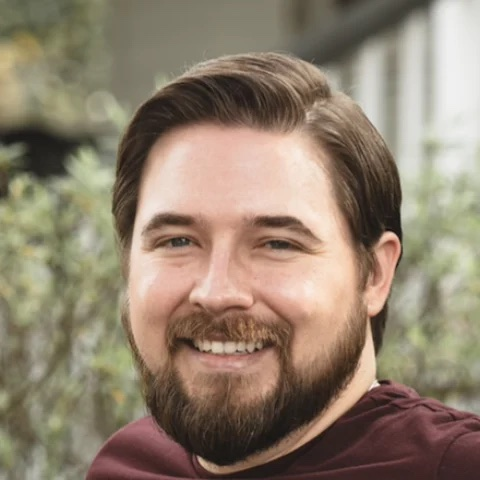
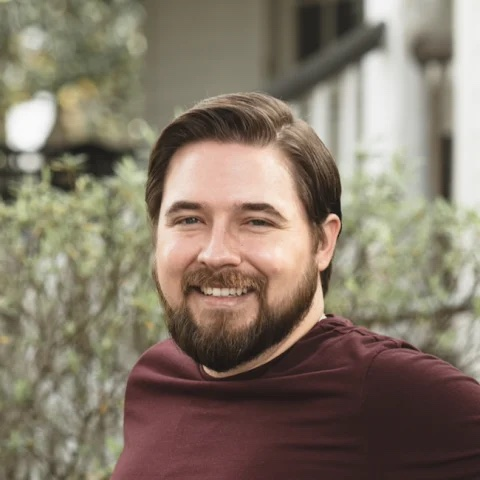
Sticky nav, contact modal, and footer cleanup (#9)
* feat: sticky navbar with scroll-revealed brand

Make the header sticky with a translucent blurred background. On the
homepage the brand name is hidden while the hero (which already shows the
name) is in view, then fades in once scrolled past — removing the duplicate
name at the top. Uses a small IntersectionObserver; degrades to an
always-visible brand without JS and on non-home pages.

* feat: add Contact link to nav

* feat: add icons to contact buttons and footer links

* feat: replace footer with contact modal triggered from Contact nav

Drop the duplicated footer contact links and copyright. Add a native
<dialog> contact modal in the layout; any "/#contact" link upgrades to
open the modal via a tiny inline script. No-JS users still anchor to the
on-page contact section. Modal includes ESC, backdrop click, and an
explicit close button for accessibility.

* feat: update headshot photo

* feat: swap headshot to latest photo

* feat: swap headshot to coffee-bench photo

* feat: widen headshot crop to include shoulders and torso

* fix: tighten headshot crop slightly

* fix: tighten headshot crop another 5%

* fix: tighten headshot crop another 5%

* fix: tighten headshot crop another 10%

* refactor: slim contact section to a single CTA opening the modal

* feat: center closing contact section and restore minimal copyright footer

* refactor: drop custom Download PDF button on /resume

diff --git a/src/styles/global.css b/src/styles/global.css
@@ -11,7 +11,7 @@
 }
 * { box-sizing: border-box; }
 html { min-height: 100%; background-color: var(--background); scroll-behavior: smooth; }
-:target { scroll-margin-top: 1.5rem; }
+:target { scroll-margin-top: 5rem; }
 body {
   min-height: 100vh; margin: 0; color: var(--text);
   background: radial-gradient(circle at 26% 48%, rgba(45,98,126,0.11), transparent 34rem), var(--background);
@@ -20,12 +20,26 @@ body {
   display: flex; flex-direction: column;
 }
 .site-header {
+  position: sticky; top: 0; z-index: 50;
+  background: color-mix(in srgb, var(--background) 82%, transparent);
+  -webkit-backdrop-filter: blur(12px) saturate(125%);
+  backdrop-filter: blur(12px) saturate(125%);
+  border-bottom: 1px solid var(--border);
+  transition: border-color 200ms ease;
+}
+body.home:not(.scrolled) .site-header { border-bottom-color: transparent; }
+.site-header-inner {
   width: var(--container); margin: 0 auto;
   display: flex; align-items: center; justify-content: space-between;
-  padding: 1.4rem 0; gap: 1rem;
+  padding: 1.05rem 0; gap: 1rem;
 }
-.brand { font-weight: 650; letter-spacing: -0.03em; font-size: 1.05rem; text-decoration: none; color: var(--text); }
-.site-nav { display: flex; gap: clamp(1rem, 3vw, 1.75rem); }
+.brand {
+  font-weight: 650; letter-spacing: -0.03em; font-size: 1.05rem; text-decoration: none; color: var(--text);
+  transition: opacity 220ms ease, transform 220ms ease, visibility 220ms ease;
+}
+html.js body.home .brand { opacity: 0; visibility: hidden; transform: translateY(-3px); }
+html.js body.home.scrolled .brand { opacity: 1; visibility: visible; transform: none; }
+.site-nav { display: flex; flex-wrap: wrap; gap: clamp(1rem, 3vw, 1.75rem); }
 .site-nav a {
   color: var(--text-secondary); text-decoration: none; font-size: 0.95rem; font-weight: 500;
   padding-bottom: 0.2rem; border-bottom: 1px solid transparent;
@@ -69,9 +83,14 @@ h1 { margin: 0; font-size: clamp(3.1rem, 7vw, 5.05rem); font-weight: 650; letter
 .work-role { margin: 0 0 0.8rem; font-size: 0.85rem; font-weight: 500; color: var(--accent); }
 .work-body { margin: 0; color: var(--text-secondary); font-size: 0.96rem; line-height: 1.6; }
 .contact-lead { margin: 0 0 1.6rem; max-width: 36rem; color: var(--text-secondary); font-size: clamp(1.05rem, 1.8vw, 1.2rem); line-height: 1.55; }
-.resume { position: relative; display: flex; flex-direction: column; flex: 1 1 auto; padding: 1rem 0 1.5rem; }
-.resume-download { position: absolute; top: 1.6rem; right: 0.85rem; z-index: 5; box-shadow: 0 4px 14px rgba(0, 0, 0, 0.45); }
-.btn { text-decoration: none; border: 1px solid var(--border); padding: 0.45rem 0.9rem; border-radius: 6px; font-size: 0.9rem; color: var(--text); transition: border-color 170ms ease, color 170ms ease; }
+#contact { text-align: center; }
+#contact .contact-lead { margin-left: auto; margin-right: auto; }
+#contact .cta-row { justify-content: center; }
+.site-footer { width: var(--container); margin: 0 auto; padding: 1.6rem 0 2rem; text-align: center; }
+.site-footer p { margin: 0; color: var(--text-muted); font-size: 0.85rem; }
+.resume { display: flex; flex-direction: column; flex: 1 1 auto; padding: 1rem 0 1.5rem; }
+.btn { display: inline-flex; align-items: center; gap: 0.5rem; text-decoration: none; border: 1px solid var(--border); padding: 0.45rem 0.9rem; border-radius: 6px; font-size: 0.9rem; color: var(--text); transition: border-color 170ms ease, color 170ms ease; }
+.btn svg { flex-shrink: 0; }
 .btn:hover { border-color: var(--accent); color: var(--accent); }
 .btn.primary { background: var(--accent); border-color: var(--accent); color: #06101d; font-weight: 600; }
 .resume-viewer { width: 100%; flex: 1 1 auto; min-height: 70vh; border: 1px solid var(--border); border-radius: 8px; background: #2a2a2a; }
@@ -87,12 +106,13 @@ h1 { margin: 0; font-size: clamp(3.1rem, 7vw, 5.05rem); font-weight: 650; letter
 .post-list a { color: var(--text); text-decoration: none; font-size: 1.15rem; font-weight: 550; }
 .post-list a:hover { color: var(--accent); }
 .coming-soon { color: var(--text-muted); font-size: 1.15rem; }
-.site-footer { width: var(--container); margin: 0 auto; padding: 2rem 0 2.5rem; border-top: 1px solid var(--border); display: flex; flex-wrap: wrap; align-items: center; justify-content: space-between; gap: 1rem; }
-.footer-contact { display: flex; flex-wrap: wrap; gap: clamp(1.2rem, 4vw, 1.8rem); }
-.footer-contact a { color: var(--text-secondary); font-size: 0.95rem; font-weight: 500; text-decoration-color: transparent; text-decoration-line: underline; text-decoration-thickness: 1px; text-underline-offset: 0.34rem; transition: color 170ms ease, text-decoration-color 170ms ease; }
-.footer-contact a:hover { color: var(--accent); text-decoration-color: var(--accent); }
-.footer-contact a:focus-visible { border-radius: 0.12rem; outline: 2px solid var(--accent); outline-offset: 0.35rem; }
-.footer-meta { margin: 0; color: var(--text-muted); font-size: 0.85rem; }
+dialog.modal { position: fixed; inset: 0; margin: auto; padding: clamp(1.5rem, 4vw, 2.1rem); width: calc(100% - 2rem); max-width: 28rem; border: 1px solid var(--border); border-radius: 14px; background: var(--surface); color: var(--text); box-shadow: 0 20px 55px rgba(0, 0, 0, 0.6); }
+dialog.modal::backdrop { background: rgba(2, 6, 12, 0.62); -webkit-backdrop-filter: blur(6px); backdrop-filter: blur(6px); }
+dialog.modal h2 { margin: 0 0 0.5rem; font-size: 1.4rem; font-weight: 600; letter-spacing: -0.02em; color: var(--text); }
+dialog.modal > p { margin: 0 0 1.35rem; color: var(--text-secondary); font-size: 0.98rem; line-height: 1.55; max-width: none; }
+.modal-close { position: absolute; top: 0.75rem; right: 0.75rem; display: inline-flex; align-items: center; justify-content: center; width: 2rem; height: 2rem; padding: 0; border: 1px solid transparent; background: transparent; color: var(--text-muted); border-radius: 8px; cursor: pointer; transition: color 170ms ease, border-color 170ms ease; }
+.modal-close:hover { color: var(--text); border-color: var(--border); }
+.modal-close:focus-visible { outline: 2px solid var(--accent); outline-offset: 2px; }
 @media (max-width: 860px) {
   .pillars { grid-template-columns: 1fr 1fr; }
 }
@@ -103,7 +123,7 @@ h1 { margin: 0; font-size: clamp(3.1rem, 7vw, 5.05rem); font-weight: 650; letter
 }
 @media (max-width: 640px) {
   :root { --container: min(100% - 2.5rem, 70rem); }
-  .site-header { flex-direction: column; align-items: flex-start; gap: 0.8rem; }
+  .site-header-inner { padding: 0.85rem 0; gap: 0.75rem; }
 }
 @media (prefers-reduced-motion: reduce) {
   html { scroll-behavior: auto; }
